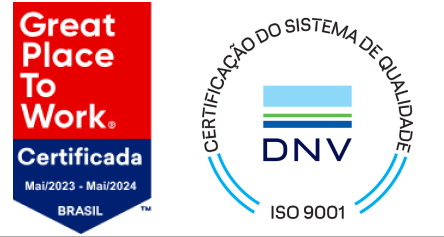
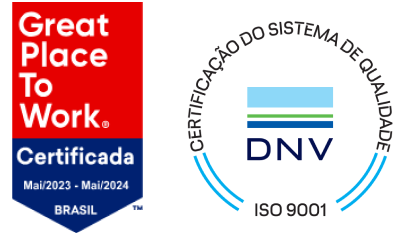
update

diff --git a/index.html b/index.html
@@ -44,12 +44,15 @@
                         bgcolor="#DDD">
                         <tbody>
                             <tr>
-                                <td class="editable" style="background-color: #fff; text-align: center;">
-                                    <img src="https://test-indol-alpha-74.vercel.app/images/suhai.png" alt=""
-                                        style="margin-top: 15px;">
+                                <td colspan="2" height="10" style="background-color: #fff;"></td>
+                            </tr>
+
+                            <tr>
+                                <td class="editable" height="50" style="background-color: #fff; text-align: center;">
+                                    <img src="https://test-indol-alpha-74.vercel.app/images/suhai.png" alt="">
                                 </td>
 
-                                <td class="editable" style="background-color: #fff;">
+                                <td class="editable" height="50" style="background-color: #fff;">
                                     <span
                                         style="font-size: 25px; font-weight: bold;  font-family: Arial, Helvetica, sans-serif;">Representante</span>
                                     <br />
@@ -59,50 +62,72 @@
                             </tr>
 
                             <tr>
-                                <td class="editable" height="65" style="background-color: #fff; text-align: center;">
-                                    <img src="https://test-indol-alpha-74.vercel.app/images/certificados.png" alt=""
-                                        style="margin-top: 10px; width: 200px; height: 100px;">
+                                <td class="editable" style="background-color: #fff; text-align: center;">
+                                    <a href="https://connect.gptw.info/certified-company?s=77c4696a-bf12-4e6c-9398-ae175a5cd320"
+                                        target="_blank" rel="noopener noreferrer"
+                                        style="text-decoration: unset !important; color: inherit;">
+                                        <img src="https://test-indol-alpha-74.vercel.app/images/certificados.png" alt=""
+                                            style="height: 90px;">
+                                    </a>
                                 </td>
 
                                 <td class="editable" style="background-color: #fff; color: transparent;">
-                                    <a href="tel:+55 11 3058-3350" style="text-decoration: unset !important; color: inherit;">
+                                    <a href="tel:+55 11 3058-3350"
+                                        style="text-decoration: unset !important; color: inherit;">
                                         <span
-                                            style="background-color: #fff; color: #00413D; font-family: Arial, Helvetica, sans-serif; font-size: 15px; cursor: pointer;">(11)
-                                            3058-3350</span>
+                                            style="background-color: #fff; color: #00413D; font-family: Arial, Helvetica, sans-serif; font-size: 15px; cursor: pointer;">
+                                            (11) 3058-3350
+                                        </span>
                                     </a>
                                     <br />
                                     <a href="mailto:ademilson.silva@suhai.com.br"
                                         style="text-decoration: unset !important; color: inherit;">
                                         <span
-                                            style="background-color: #fff; color: #00413D; font-family: Arial, Helvetica, sans-serif; font-size: 15px; cursor: pointer;">teste@suhai.com.br</span>
+                                            style="background-color: #fff; color: #00413D; font-family: Arial, Helvetica, sans-serif; font-size: 15px; cursor: pointer;">
+                                            teste@suhai.com.br
+                                        </span>
                                     </a>
                                     <br />
                                     <a href="https://suhaiseguradora.com/" target="_blank" rel="noopener noreferrer"
                                         style="border: 0px; padding: 0px; outline: 0px; text-decoration: unset !important; color: inherit;">
                                         <span
-                                            style="background-color: #fff; color: #00413D; font-family: Arial, Helvetica, sans-serif; font-weight: bold; font-size: 15px; cursor: pointer;">www.suhaiseguranca.com.br</span>
+                                            style="background-color: #fff; color: #00413D; font-family: Arial, Helvetica, sans-serif; font-weight: bold; font-size: 15px; cursor: pointer;">
+                                            www.suhaiseguranca.com.br
+                                        </span>
                                     </a>
                                 </td>
                             </tr>
 
                             <tr>
-                                <td class="editable" height="50" style="background-color: #fff;"></td>
+                                <td class="editable" style="background-color: #fff;"></td>
 
-                                <td class="editable" height="50" style="background-color: #fff;">
-                                    <a href="https://www.linkedin.com/company/suhai-segurancapessoal" target="_blank" rel="noopener noreferrer" style="text-decoration: unset !important; color: inherit;">
-                                        <img src="https://test-indol-alpha-74.vercel.app/images/linkedin.png" alt="linkedin">
+                                <td class="editable" style="background-color: #fff;">
+                                    <a href="https://www.linkedin.com/company/suhai-segurancapessoal" target="_blank"
+                                        rel="noopener noreferrer"
+                                        style="text-decoration: unset !important; color: inherit;">
+                                        <img src="https://test-indol-alpha-74.vercel.app/images/linkedin.png"
+                                            alt="linkedin">
                                     </a>
 
-                                    <a href="https://www.instagram.com/suhai_segurancapessoal/" target="_blank" rel="noopener noreferrer" style="text-decoration: unset !important; color: inherit;">
-                                        <img src="https://test-indol-alpha-74.vercel.app/images/instagram.png" alt="instagram">
+                                    <a href="https://www.instagram.com/suhai_segurancapessoal/" target="_blank"
+                                        rel="noopener noreferrer"
+                                        style="text-decoration: unset !important; color: inherit;">
+                                        <img src="https://test-indol-alpha-74.vercel.app/images/instagram.png"
+                                            alt="instagram">
                                     </a>
 
-                                    <a href="https://www.facebook.com/suhaiseguranca/" target="_blank" rel="noopener noreferrer" style="text-decoration: unset !important; color: inherit;">
-                                        <img src="https://test-indol-alpha-74.vercel.app/images/facebook.png" alt="facebook">
+                                    <a href="https://www.facebook.com/suhaiseguranca/" target="_blank"
+                                        rel="noopener noreferrer"
+                                        style="text-decoration: unset !important; color: inherit;">
+                                        <img src="https://test-indol-alpha-74.vercel.app/images/facebook.png"
+                                            alt="facebook" style="height: 40px;">
                                     </a>
 
-                                    <a href="https://www.youtube.com/channel/UCk73RtXisYR7N2Wely4OWkQ" target="_blank" rel="noopener noreferrer" style="text-decoration: unset !important; color: inherit;">
-                                        <img src="https://test-indol-alpha-74.vercel.app/images/youtube.png" alt="youtube">
+                                    <a href="https://www.youtube.com/channel/UCk73RtXisYR7N2Wely4OWkQ" target="_blank"
+                                        rel="noopener noreferrer"
+                                        style="text-decoration: unset !important; color: inherit;">
+                                        <img src="https://test-indol-alpha-74.vercel.app/images/youtube.png"
+                                            alt="youtube">
                                     </a>
                                 </td>
                             </tr>
